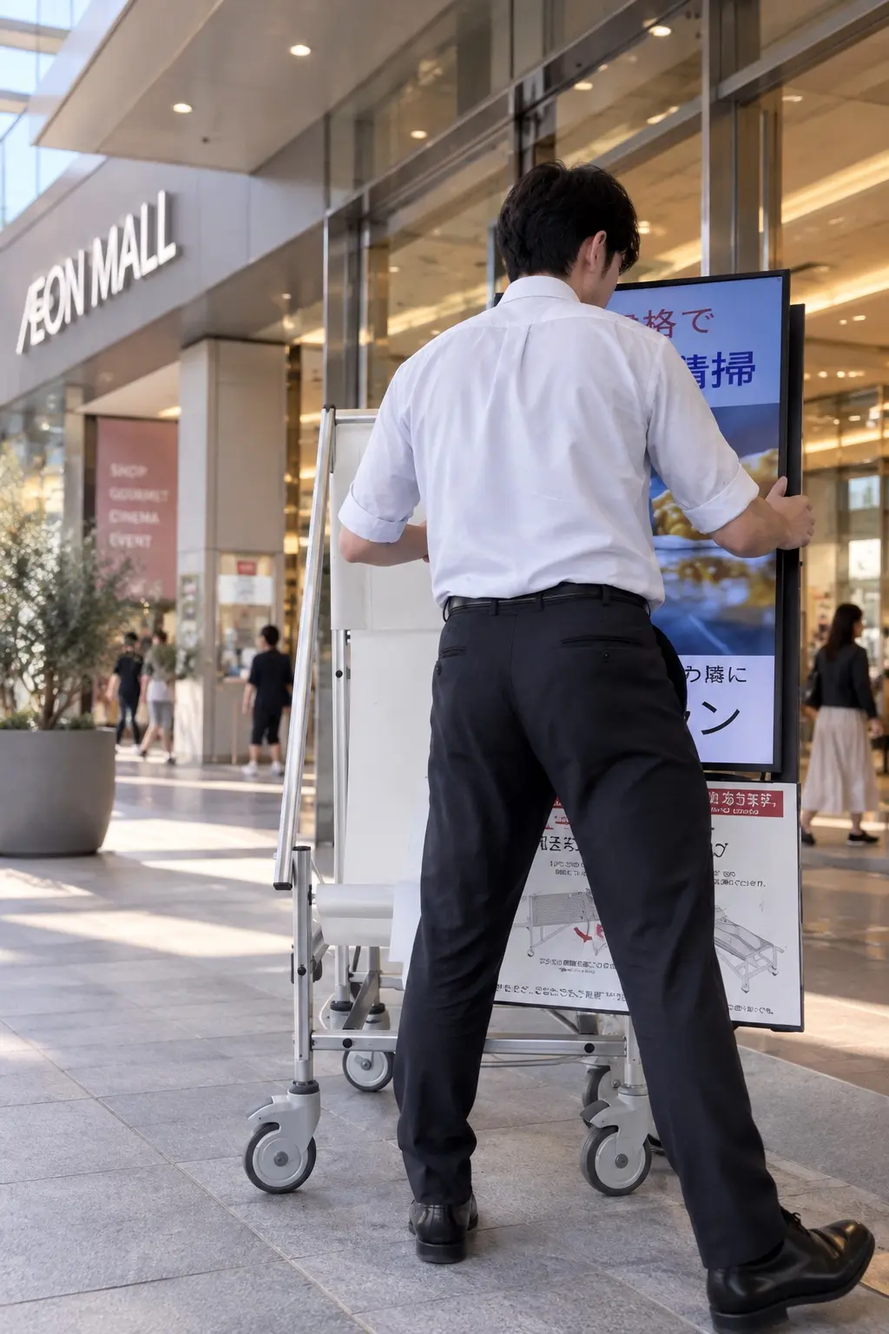
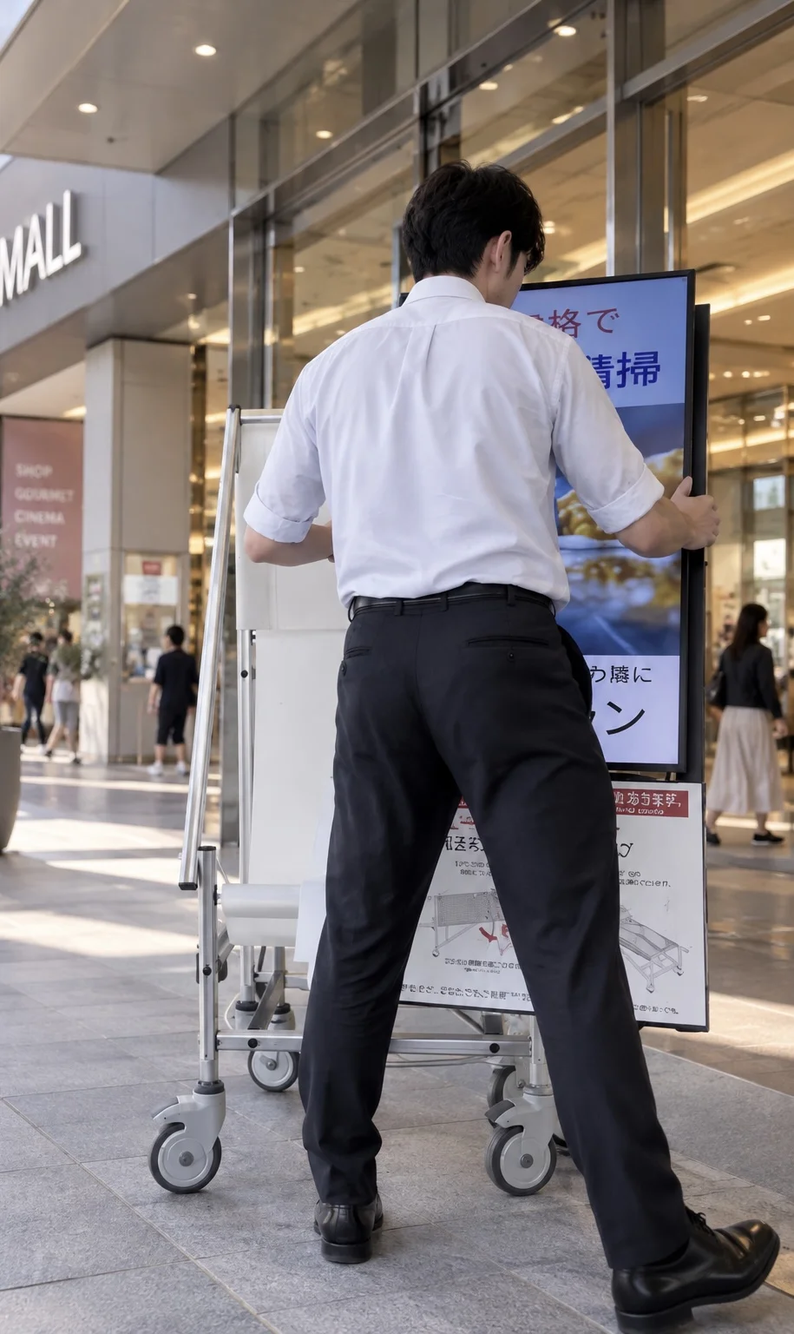
Refine product photography, balanced layouts and Japanese copy

diff --git a/product/index.html b/product/index.html
@@ -1,10 +1,10 @@
-<!doctype html><html lang="ja"><head><meta charset="UTF-8"><meta name="viewport" content="width=device-width,initial-scale=1"><meta name="theme-color" content="#111315"><title>製品詳細｜デジタルサイネージサポートサイン｜株式会社ユニオン</title><meta name="description" content="日常は情報を届けるデジタルサイネージ、緊急時は搬送用具へ。製品の仕組み、変形方法、用途、仕様をご紹介します。"><link rel="icon" href="../assets/favicon.svg"><link rel="stylesheet" href="product.css?v=20260922-images"><script src="product.js" defer></script></head><body>
+<!doctype html><html lang="ja"><head><meta charset="UTF-8"><meta name="viewport" content="width=device-width,initial-scale=1"><meta name="theme-color" content="#111315"><title>製品詳細｜デジタルサイネージサポートサイン｜株式会社ユニオン</title><meta name="description" content="日常は情報を届けるデジタルサイネージ緊急時は搬送用具へ製品の仕組み変形方法用途仕様をご紹介します"><link rel="icon" href="../assets/favicon.svg"><link rel="stylesheet" href="product.css?v=20260923-refine"><script src="product.js" defer></script></head><body>
 <header><a class="brand" href="../"><b>DSS</b><span>DIGITAL SIGNAGE<br>SUPPORT SIGN</span></a><nav><a href="#overview">製品について</a><a href="#how">変形方法</a><a href="#detail">製品仕様</a><a href="../company/">会社紹介</a><a class="cta" href="#contact">気軽に質問する ↗</a></nav><button aria-expanded="false" aria-controls="mobile">≡</button></header><div id="mobile" hidden><a href="#overview">製品について</a><a href="#how">変形方法</a><a href="#detail">製品仕様</a><a href="#contact">気軽に質問する ↗</a></div>
-<main><section class="hero"><p class="eyebrow">PRODUCT / DIGITAL SIGNAGE SUPPORT SIGN</p><div class="hero-copy"><h1>日常は、伝える。<br>もしもの時は、<br><em>人を支える。</em></h1><p>日常の情報発信と緊急時の搬送補助。<br>二つの役割を、一台に。</p></div><figure class="photo hero-photo photo-filled"><img src="../assets/product-hero.webp" alt="広島の商店街で地域の人々がデジタルサイネージサポートサインを見る様子" fetchpriority="high"><figcaption><span>MAIN VISUAL</span><small>地域の日常に、情報と安心を。</small></figcaption></figure><div class="hero-foot"><span>EVERYDAY SIGNAGE.</span><span>EMERGENCY SUPPORT.</span></div></section>
-<section id="overview" class="section"><div class="label"><span>01 / OVERVIEW</span><span>ひとつの製品、ふたつの役割</span></div><div class="lead"><h2>いつもの場所にある<br>サイネージが、<br>もしもの備えになる。</h2><p>デジタルサイネージサポートサインは、普段は施設案内やお知らせを届ける電子看板として使用し、緊急時にはディスプレイ部分を取り外して搬送用具として活用できる製品です。</p></div><div class="dual"><article class="dark"><figure class="photo mode-photo photo-filled"><img src="../assets/product-daily.webp" alt="商業施設の入口で情報を表示するデジタルサイネージサポートサイン" loading="lazy"><figcaption><span>01 / EVERYDAY</span><small>日常時</small></figcaption></figure><h3>情報を届ける</h3><p>施設案内、安全啓発、イベント情報、企業PRなどを動画や画像で発信します。</p></article><article><figure class="photo mode-photo photo-filled"><img src="../assets/product-emergency.webp" alt="避難所で支援物資の運搬に活用されるデジタルサイネージサポートサイン" loading="lazy"><figcaption><span>02 / EMERGENCY</span><small>緊急時</small></figcaption></figure><h3>人や物を支える</h3><p>製品タイプに応じた搬送用具へ。体調不良者の移動や物資運搬などを補助します。</p></article></div></section>
-<section id="how" class="section inverse"><div class="label"><span>02 / TRANSFORM</span><span>緊急時の姿へ</span></div><div class="lead"><h2>約15秒。<br>迷いにくい、<br>シンプルな操作。</h2><p>ディスプレイを取り外し、足元のストッパーを解除。いざという時に、すばやく車椅子として活用できます。</p></div><div class="steps"><article><figure class="photo step-photo photo-filled"><img src="../assets/product-remove-display.webp" alt="デジタルサイネージのディスプレイ部分を取り外す様子" loading="lazy"><figcaption><span>STEP 01</span><small>DISPLAY OFF</small></figcaption></figure><h3>ディスプレイ部分を取り外す</h3></article><article><div class="step-photo-pair"><figure class="photo step-photo photo-filled"><img src="../assets/product-stopper-before.webp" alt="解除前の足元のストッパー" loading="lazy"><figcaption><span>BEFORE</span></figcaption></figure><figure class="photo step-photo photo-filled"><img src="../assets/product-stopper-after.webp" alt="解除後の足元のストッパー" loading="lazy"><figcaption><span>AFTER</span></figcaption></figure></div><h3>足元のストッパーを外す</h3></article><article><figure class="photo step-photo photo-filled wheelchair-photo"><img src="../assets/product-wheelchair.webp" alt="ディスプレイを取り外して車椅子として活用できる状態" loading="lazy"><figcaption><span>STEP 03</span><small>WHEELCHAIR MODE</small></figcaption></figure><h3>車椅子として活用</h3></article></div><div class="movie"><b>▶</b><span><small>MOVIE / 撮影後に追加</small>変形の流れを動画で見る</span><i>15 SEC.</i></div></section>
-<section class="section"><div class="label"><span>03 / EVERYDAY VALUE</span><span>備えるだけではなく、毎日使える</span></div><div class="value"><div><h2>画面があるから、<br>日々の役割が生まれる。</h2><p>人が行き交う場所で毎日使う備えへ。施設に必要な情報を発信しながら、安全への取り組みも自然に伝えられます。</p></div><ul><li>施設案内・掲示板</li><li>安全啓発・避難案内</li><li>イベント情報</li><li>企業・地域の取り組み</li><li>広告・スポンサー表示</li><li>動画コンテンツ</li></ul></div><figure class="photo screen photo-filled"><img src="../assets/product-display.webp" alt="広島の商店街でイベント情報を表示するデジタルサイネージサポートサイン" loading="lazy"><figcaption><span>DISPLAY DETAIL</span><strong>伝えたい情報を、<br>動きのある画面で。</strong></figcaption></figure></section>
-<section class="section fog"><div class="label"><span>04 / EMERGENCY USE</span><span>もしもの時の選択肢に</span></div><div class="lead"><h2>人を運ぶ。<br>物資を運ぶ。<br>救護を支える。</h2><div class="uses"><article><b>01</b><h3>移動の補助</h3><p>体調不良者などを安全な場所へ移動する際の補助に。</p></article><article><b>02</b><h3>災害時の搬送補助</h3><p>施設内の救護・避難活動を支える搬送用具として。</p></article><article><b>03</b><h3>支援物資の運搬</h3><p>避難所や支援拠点で、人だけでなく物を運ぶ用途にも。</p></article></div></div><aside><b>IMPORTANT NOTE</b><p>本製品は救護活動を補助する搬送用具であり、医療機器ではありません。施設の救護・避難計画に合わせてご活用ください。</p></aside></section>
-<section id="detail" class="section inverse details"><div class="label"><span>05 / PRODUCT DETAILS</span><span>製品の細部と基本仕様</span></div><div class="lead"><h2>細部まで、<br>使う場面を考えた設計。</h2><p>製品写真の撮影後、各部の特徴を写真に重ねて自然にご紹介します。</p></div><div class="detail-stage"><strong>DETAILS</strong><div class="product-shape">PRODUCT<br>FULL VIEW<small>製品写真</small></div><span class="p1">01　ディスプレイ取付部</span><span class="p2">02　展開フレーム</span><span class="p3">03　ストッパー</span><span class="p4">04　キャスター</span></div><div class="spec"><h3>基本仕様</h3><dl><div><dt>対応ディスプレイ</dt><dd>43〜55インチ</dd></div><div><dt>メーカー・機種</dt><dd>設置環境に合わせて選択可能</dd></div><div><dt>緊急時の形態</dt><dd>ストレッチャータイプ／車いすタイプ</dd></div><div><dt>価格</dt><dd>機種構成・台数・保守内容によりお見積もり</dd></div></dl></div><p class="note">寸法・重量・耐荷重などは、掲載数値を最終確認後に追加します。</p></section>
-<section class="section"><div class="label"><span>06 / SCENES</span><span>さまざまな場所に、日常の安心を</span></div><div class="scene-head"><h2>人が集まる場所に。<br>安全を考える施設に。</h2><a href="../#scenes">活用シーンを見る ↗</a></div><div class="strip"><span>企業・工場</span><span>学校</span><span>商業施設</span><span>駅・港</span><span>スタジアム・イベント</span></div><p style="margin:30px 0 0"><a href="../partners/" style="display:inline-block;border-bottom:1px solid;padding:12px 0">お取り扱いをお考えの企業様へ：販売パートナー募集 ↗</a></p></section>
-<section id="contact" class="contact"><p class="eyebrow">TALK WITH UNION</p><h2>施設に合わせた使い方を、<br>一緒に考えます。</h2><p>設置場所、ディスプレイ、運用方法、費用感。検討前でもお気軽にご質問ください。</p><div><a href="https://docs.google.com/forms/d/e/1FAIpQLSdQvwUCY77L22IvAKcECpF384Vm-meFKupwjZma_bfVFzkHiA/viewform?usp=publish-editor" target="_blank">製品について相談する ↗</a><a class="white" href="tel:0828430039">お電話 082-843-0039</a></div></section></main><footer><a href="../">DSS TOP</a><a href="../company/">株式会社ユニオン</a><span>© UNION. All Rights Reserved.</span><a href="#">↑</a></footer></body></html>
+<main><section class="hero"><p class="eyebrow">PRODUCT / DIGITAL SIGNAGE SUPPORT SIGN</p><div class="hero-copy"><h1>日常は伝える<br>もしもの時は<br><em>人を支える</em></h1><p>日常の情報発信と緊急時の搬送補助<br>二つの役割を一台に</p></div><div class="hero-gallery"><figure class="photo hero-photo photo-filled"><img src="../assets/product-hero.webp" width="1318" height="1193" alt="広島の商店街で地域の人々がデジタルサイネージサポートサインを見る様子" fetchpriority="high"><figcaption><span>EVERYDAY</span><small>地域の日常に情報と安心を</small></figcaption></figure><figure class="photo hero-photo photo-filled"><img src="../assets/product-rescue.webp" width="1312" height="1199" alt="車椅子として緊急時の移動を支える使用イメージ" fetchpriority="high"><figcaption><span>EMERGENCY</span><small>もしもの時に人を支える</small></figcaption></figure></div><div class="hero-foot"><span>EVERYDAY SIGNAGE</span><span>EMERGENCY SUPPORT</span></div></section>
+<section id="overview" class="section"><div class="label"><span>01 / OVERVIEW</span><span>ひとつの製品ふたつの役割</span></div><div class="lead"><h2>いつもの場所にある<br>サイネージが<br>もしもの備えになる</h2><p>デジタルサイネージサポートサインは普段は施設案内やお知らせを届ける電子看板として使用し<br>緊急時にはディスプレイ部分を取り外して搬送用具として活用できる製品です</p></div><div class="dual"><article class="dark"><figure class="photo mode-photo photo-filled"><img src="../assets/product-daily.webp" width="1024" height="1536" alt="商業施設の入口で情報を表示するデジタルサイネージサポートサイン" loading="lazy"><figcaption><span>01 / EVERYDAY</span><small>日常時</small></figcaption></figure><h3>情報を届ける</h3><p>施設案内　安全啓発　イベント情報　企業PR<br>動画や画像でさまざまな情報を発信します</p></article><article><figure class="photo mode-photo photo-filled"><img src="../assets/product-emergency.webp" width="1312" height="1199" alt="緊急時に車椅子として移動を補助する使用イメージ" loading="lazy"><figcaption><span>02 / EMERGENCY</span><small>緊急時</small></figcaption></figure><h3>人や物を支える</h3><p>製品タイプに応じた搬送用具へ<br>体調不良者の移動や物資運搬などを補助します</p></article></div></section>
+<section id="how" class="section inverse"><div class="label"><span>02 / TRANSFORM</span><span>緊急時の姿へ</span></div><div class="lead"><h2>緊急時でも迷わない<br>簡単変形<span class="transform-time">約15秒</span></h2><p>ディスプレイを取り外し足元のストッパーを解除<br>いざという時にすばやく車椅子として活用できます</p></div><div class="steps"><article><figure class="photo step-photo photo-filled"><img src="../assets/product-remove-display.webp" width="915" height="1536" alt="デジタルサイネージのディスプレイ部分を取り外す様子" loading="lazy"><figcaption><span>STEP 01</span><small>DISPLAY OFF</small></figcaption></figure><h3>ディスプレイ部分を取り外す</h3></article><article><div class="step-photo-pair"><figure class="photo step-photo photo-filled"><img src="../assets/product-stopper-before.webp" width="864" height="1536" alt="解除前の足元のストッパー" loading="lazy"><figcaption><span>BEFORE</span></figcaption></figure><figure class="photo step-photo photo-filled"><img src="../assets/product-stopper-after.webp" width="864" height="1536" alt="解除後の足元のストッパー" loading="lazy"><figcaption><span>AFTER</span></figcaption></figure></div><h3>足元のストッパーを外す</h3></article><article><figure class="photo step-photo photo-filled wheelchair-photo"><img src="../assets/product-wheelchair.webp" width="1024" height="1536" alt="ディスプレイを取り外して車椅子として活用できる状態" loading="lazy"><figcaption><span>STEP 03</span><small>WHEELCHAIR MODE</small></figcaption></figure><h3>車椅子として活用</h3></article></div><div class="movie"><b>▶</b><span><small>MOVIE / 撮影後に追加</small>変形の流れを動画で見る</span><i>15 SEC</i></div></section>
+<section class="section"><div class="label"><span>03 / EVERYDAY VALUE</span><span>備えるだけではなく毎日使える</span></div><div class="value"><div><h2>サイネージだからこそ<br>より多くの情報を伝えられ<br>より多くの役割をこなします</h2><p>人が行き交う場所で毎日使う備えへ<br>施設に必要な情報を発信しながら安全への取り組みも自然に伝えられます</p></div><ul><li>施設案内・掲示板</li><li>安全啓発・避難案内</li><li>イベント情報</li><li>企業・地域の取り組み</li><li>広告・スポンサー表示</li><li>動画コンテンツ</li></ul></div><figure class="photo screen photo-filled"><img src="../assets/product-display.webp" width="1318" height="1193" alt="広島の商店街でイベント情報を表示するデジタルサイネージサポートサイン" loading="lazy"><figcaption><span>DISPLAY DETAIL</span><strong>伝えたい情報を<br>動きのある画面で</strong></figcaption></figure></section>
+<section class="section fog"><div class="label"><span>04 / EMERGENCY USE</span><span>もしもの時の選択肢に</span></div><div class="lead"><h2>人を運ぶ<br>物資を運ぶ<br>救護を支える</h2><div class="uses"><article><b>01</b><h3>移動の補助</h3><p>体調不良者などを安全な場所へ移動する際の補助に</p></article><article><b>02</b><h3>災害時の搬送補助</h3><p>施設内の救護・避難活動を支える搬送用具として</p></article><article><b>03</b><h3>支援物資の運搬</h3><p>避難所や支援拠点で人だけでなく物を運ぶ用途にも</p></article></div></div><aside><b>IMPORTANT NOTE</b><p>本製品は救護活動を補助する搬送用具であり医療機器ではありません<br>施設の救護・避難計画に合わせてご活用ください</p></aside></section>
+<section id="detail" class="section inverse details"><div class="label"><span>05 / PRODUCT DETAILS</span><span>製品の細部と基本仕様</span></div><div class="lead"><h2>細部まで<br>使う場面を考えた設計</h2><p>ディスプレイ取付部からフレームや足元まで<br>製品全体と各部の構造をご覧いただけます</p></div><div class="detail-gallery"><figure class="full-view"><img src="../assets/product-full.webp" alt="座面とフレームとキャスターが分かる製品全体" loading="lazy" width="864" height="1536"><figcaption>PRODUCT FULL VIEW</figcaption></figure><div class="detail-grid"><figure><img src="../assets/product-mount.webp" alt="ディスプレイ取付部の構造" loading="lazy" width="864" height="1536"><figcaption>01　ディスプレイ取付部</figcaption></figure><figure><img src="../assets/product-frame.webp" alt="横から見た展開フレーム" loading="lazy" width="864" height="1536"><figcaption>02　展開フレーム</figcaption></figure><figure><img src="../assets/product-stopper-detail.webp" alt="フレームに付いたストッパーの拡大写真" loading="lazy" width="864" height="1536"><figcaption>03　ストッパー</figcaption></figure><figure><img src="../assets/product-caster.webp" alt="製品の足元とキャスター" loading="lazy" width="864" height="1536"><figcaption>04　キャスター</figcaption></figure></div></div><div class="spec"><h3>基本仕様</h3><dl><div><dt>対応ディスプレイ</dt><dd>43〜55インチ</dd></div><div><dt>メーカー・機種</dt><dd>設置環境に合わせて選択可能</dd></div><div><dt>緊急時の形態</dt><dd>ストレッチャータイプ／車いすタイプ</dd></div><div><dt>価格</dt><dd>機種構成・台数・保守内容によりお見積もり</dd></div></dl></div><p class="note">寸法・重量・耐荷重などは掲載数値を最終確認後に追加します</p></section>
+<section class="section"><div class="label"><span>06 / SCENES</span><span>さまざまな場所に日常の安心を</span></div><div class="scene-head"><h2>人が集まる場所に<br>安全を考える施設に</h2><a href="../#scenes">活用シーンを見る ↗</a></div><div class="strip"><span>企業・工場</span><span>学校</span><span>商業施設</span><span>駅・港</span><span>スタジアム・イベント</span></div><p style="margin:30px 0 0"><a href="../partners/" style="display:inline-block;border-bottom:1px solid;padding:12px 0">お取り扱いをお考えの企業様へ：販売パートナー募集 ↗</a></p></section>
+<section id="contact" class="contact"><p class="eyebrow">TALK WITH UNION</p><h2>施設に合わせた使い方を<br>一緒に考えます</h2><p>設置場所やディスプレイ　運用方法や費用感<br>検討前でもお気軽にご質問ください</p><div><a href="https://docs.google.com/forms/d/e/1FAIpQLSdQvwUCY77L22IvAKcECpF384Vm-meFKupwjZma_bfVFzkHiA/viewform?usp=publish-editor" target="_blank">製品について相談する ↗</a><a class="white" href="tel:0828430039">お電話 082-843-0039</a></div></section></main><footer><a href="../">DSS TOP</a><a href="../company/">株式会社ユニオン</a><span>© UNION. All Rights Reserved.</span><a href="#">↑</a></footer></body></html>

diff --git a/product/product.css b/product/product.css
@@ -3,17 +3,53 @@
 @media(max-width:900px){header nav{display:none}header button{display:block;border:0;background:none;font-size:25px}#mobile{position:fixed;top:82px;inset-inline:0;z-index:19;background:#fff;padding:20px var(--pad);border-bottom:1px solid var(--line)}#mobile:not([hidden]){display:flex;flex-direction:column}#mobile a{padding:12px 0;border-bottom:1px solid var(--line)}.hero{grid-template-columns:1fr}.hero>.eyebrow,.hero-foot{grid-column:1}.hero-photo{min-height:70vw}.lead,.value{grid-template-columns:1fr;gap:35px}.dual{margin-inline:-3vw}.spec{grid-template-columns:1fr}.note{margin-left:0}.strip{grid-template-columns:1fr 1fr}}
 @media(max-width:650px){header{height:72px;padding:0 6vw}#mobile{top:72px}.section{padding:78px 7vw}.label{margin-bottom:45px}.label span:last-child{font-size:9px}.hero{min-height:0;padding:32px 7vw}.hero h1{font-size:12vw}.hero-photo{min-height:112vw}.dual{grid-template-columns:1fr;margin-top:55px}.mode-photo{height:95vw}.steps{grid-template-columns:1fr}.step-photo{height:80vw;max-height:none}.screen{height:110vw}.screen strong{width:100%}.fog aside{grid-template-columns:1fr;gap:8px}.detail-stage{height:150vw;min-height:590px}.product-shape{width:62%;left:19%}.detail-stage>span{width:31%}.spec dl div{grid-template-columns:1fr}.scene-head{display:block}.scene-head a{display:inline-block;margin-top:25px}.strip{grid-template-columns:1fr}.strip span{border-right:0;border-bottom:1px solid var(--line)}.contact{padding:80px 7vw}.contact>div{flex-direction:column}.contact a{min-width:0}footer{grid-template-columns:1fr 1fr}footer span{grid-column:1/-1;text-align:left}}
 
-/* Product photography */
-.dual .mode-photo.photo-filled{height:auto;max-height:none;aspect-ratio:2/3}
-.dual article:last-child .mode-photo.photo-filled{aspect-ratio:4/3}
-.steps .step-photo.photo-filled{height:auto;max-height:none;aspect-ratio:2/3}
-.steps .step-photo-pair{height:auto;max-height:none;aspect-ratio:2/3;align-items:center}
-.steps .step-photo-pair .step-photo.photo-filled{aspect-ratio:9/16;width:100%}
-.screen.photo-filled{height:auto;max-height:none;aspect-ratio:1078/976}
-.screen.photo-filled figcaption{position:relative;margin-top:90%;background:#fff;color:#111;padding:24px 0;display:block}
+/* Photography uses shared proportions with captions outside the image */
+figure{margin:0}
+.hero{grid-template-columns:minmax(260px,.8fr) minmax(0,1.7fr);gap:32px}
+.hero h1{font-size:clamp(38px,4.1vw,66px)}
+.hero-gallery{display:grid;grid-template-columns:repeat(2,minmax(0,1fr));gap:14px;align-self:center}
+.photo-filled{padding:0;background:transparent;display:block}
+.photo-filled:before{display:none}
+.photo-filled>img{display:block;width:100%;height:auto;object-fit:cover}
+.photo-filled figcaption{display:flex;justify-content:space-between;gap:12px;padding:15px 0;font-size:11px;line-height:1.7}
+.photo-filled figcaption span{font:600 10px/1.7 'Karla',sans-serif;letter-spacing:.12em}
+.photo-filled figcaption small{font:400 11px/1.7 'Noto Sans JP',sans-serif;letter-spacing:0}
+.hero-photo{min-height:0}
+.hero-photo img{aspect-ratio:1.1;object-fit:cover}
+.hero-photo figcaption{flex-direction:column;gap:3px}
+.dual{gap:32px;background:none}
+.dual article,.dual article.dark{padding:0;background:none;color:var(--ink)}
+.dual .mode-photo{height:auto;max-height:none;border:0;margin:0}
+.dual .mode-photo img{aspect-ratio:3/4;width:100%;height:auto;object-fit:cover}
+.dual article:first-child .mode-photo img{object-position:center 75%}
+.dual article:last-child .mode-photo img{object-position:40% center}
+.dual .mode-photo figcaption{border-bottom:1px solid var(--line);padding-bottom:18px}
+.dual .dark p,.dual p{color:var(--muted)}
+.dual h3{margin-top:25px}
+#how .lead{grid-template-columns:1.3fr .7fr;gap:6vw}
+#how h2{font-size:clamp(30px,3.9vw,58px)}
+.transform-time{display:block;font-size:1.5em;letter-spacing:-.03em;line-height:1.3;margin-top:16px}
+.steps{gap:24px;background:none}
+.steps article{padding:0;min-width:0}
+.steps .step-photo{height:auto;max-height:none;margin:0;background:none}
+.steps .step-photo>img{aspect-ratio:3/5;object-fit:cover}
+.steps .step-photo-pair{display:grid;grid-template-columns:1fr 1fr;gap:8px;aspect-ratio:3/5;align-content:center}
+.steps .step-photo-pair img{aspect-ratio:9/16}
+.steps h3{margin:16px 0 0;font-size:17px}
+.value{grid-template-columns:1.6fr 1fr;gap:6vw}
+.value h2{font-size:clamp(25px,3vw,46px);line-height:1.7;letter-spacing:-.025em}
+.screen.photo-filled{height:auto;max-height:none;margin-top:70px;display:grid;grid-template-columns:1.2fr 1fr;align-items:center;gap:6vw}
 .screen.photo-filled>img{height:auto;object-fit:contain}
-.screen.photo-filled figcaption strong{width:100%;background:none;padding:12px 0;font-size:clamp(28px,3vw,44px)}
-.hero-photo.photo-filled{min-height:0;aspect-ratio:1318/1193;align-self:center}
-figure{margin:0}.photo-filled{padding:0;background:#d9dcdf}.photo-filled:before{display:none}.photo-filled>img{position:absolute;inset:0;width:100%;height:100%;object-fit:cover;display:block}.photo-filled figcaption{position:absolute;inset:auto 0 0;z-index:2;display:flex;justify-content:space-between;align-items:flex-end;gap:20px;padding:48px 28px 24px;color:#fff;background:linear-gradient(0deg,#090b0dcc,transparent)}.photo-filled figcaption span,.photo-filled figcaption small{font:600 10px 'Karla',sans-serif;letter-spacing:.13em;text-shadow:0 1px 12px #000}.hero-photo>img{object-position:center}.mode-photo>img{object-position:center}.dual article:first-child .mode-photo>img{object-position:center 58%}.dual article:last-child .mode-photo>img{object-position:center}.step-photo>img{object-position:center}.wheelchair-photo>img{object-position:center 58%}.step-photo-pair{display:grid;grid-template-columns:1fr 1fr;gap:2px;height:28vw;max-height:390px;margin:0 -22px 26px;background:#111}.step-photo-pair .step-photo{height:100%;margin:0}.step-photo-pair .photo-filled figcaption{padding:35px 15px 18px}.step-photo-pair img{object-position:center 72%}.screen>img{object-position:center}.screen figcaption{align-items:flex-end;padding:90px 5vw 4vw}.screen figcaption strong{position:relative;width:min(650px,70%);margin:0;background:#ffffffeb;color:#111;text-shadow:none}.screen figcaption span{align-self:flex-start;margin-bottom:12px;padding:7px 10px;background:#111;color:#fff}
-@media(max-width:900px){.step-photo-pair{height:28vw}.screen figcaption strong{width:min(650px,78%)}}
-@media(max-width:650px){.photo-filled figcaption{padding:46px 20px 18px}.step-photo-pair{height:80vw;max-height:none}.step-photo-pair .photo-filled figcaption{padding:35px 10px 14px}.screen figcaption{padding:60px 5vw 6vw}.screen figcaption strong{width:100%;padding:18px;font-size:7vw}.screen figcaption span{font-size:9px}}
+.screen.photo-filled figcaption{display:block;padding:0}
+.screen.photo-filled figcaption strong{display:block;font-size:clamp(27px,3.2vw,48px);font-family:'Noto Sans JP',sans-serif;line-height:1.65;letter-spacing:-.02em;color:var(--ink);background:none;mix-blend-mode:normal;width:100%;padding:20px 0 0}
+.detail-gallery{display:grid;grid-template-columns:1fr 1fr;gap:40px;margin-top:70px;align-items:start}
+.details .lead h2{font-size:clamp(30px,3.6vw,56px)}
+.detail-gallery img{display:block;width:100%;height:auto}
+.detail-gallery figcaption{font-size:12px;line-height:1.8;padding:16px 0;border-bottom:1px solid #3a3d40}
+.full-view figcaption{font-family:'Karla',sans-serif;letter-spacing:.14em}
+.detail-grid{display:grid;grid-template-columns:1fr 1fr;gap:28px 20px}
+.section p{line-height:2.1}
+@media(max-width:650px){h2{font-size:clamp(28px,7.5vw,42px)}.details .lead h2{font-size:clamp(26px,6.5vw,36px)}}
+@media(max-width:1100px){.hero{grid-template-columns:1fr}.hero-copy{display:flex;justify-content:space-between;align-items:end;gap:30px}.hero h1{font-size:clamp(42px,5.5vw,64px)}.hero-copy>p{margin-bottom:25px}.hero-gallery{max-width:100%}}
+@media(max-width:900px){#how .lead,.value{grid-template-columns:1fr;gap:35px}.value h2{font-size:clamp(25px,4.7vw,42px)}.dual{margin-inline:0}.detail-gallery{gap:24px}.screen.photo-filled{gap:30px}}
+@media(max-width:650px){.hero{gap:26px}.hero-copy{display:block}.hero h1{font-size:11vw}.hero-gallery{gap:10px}.hero-photo figcaption small{font-size:10px}.hero-photo figcaption span{font-size:9px}.hero-foot{font-size:8px;letter-spacing:.08em}.dual{grid-template-columns:1fr;gap:40px}.dual .mode-photo img{aspect-ratio:3/4}.steps{gap:44px}.steps h3{margin-top:12px}.steps .step-photo-pair{aspect-ratio:auto}.value h2{font-size:clamp(21px,5.35vw,34px)}.screen.photo-filled{grid-template-columns:1fr;gap:25px}.screen.photo-filled figcaption strong{font-size:8vw;padding-top:12px}.detail-gallery{grid-template-columns:1fr;gap:35px}.full-view{max-width:100%}.detail-grid{gap:25px 14px}.detail-grid figcaption{font-size:11px}.label{gap:15px;line-height:1.7}.spec dd{font-size:14px}.movie{gap:12px;padding:16px}.movie i{display:none}.movie span{font-size:14px}.note{margin-left:0}}
